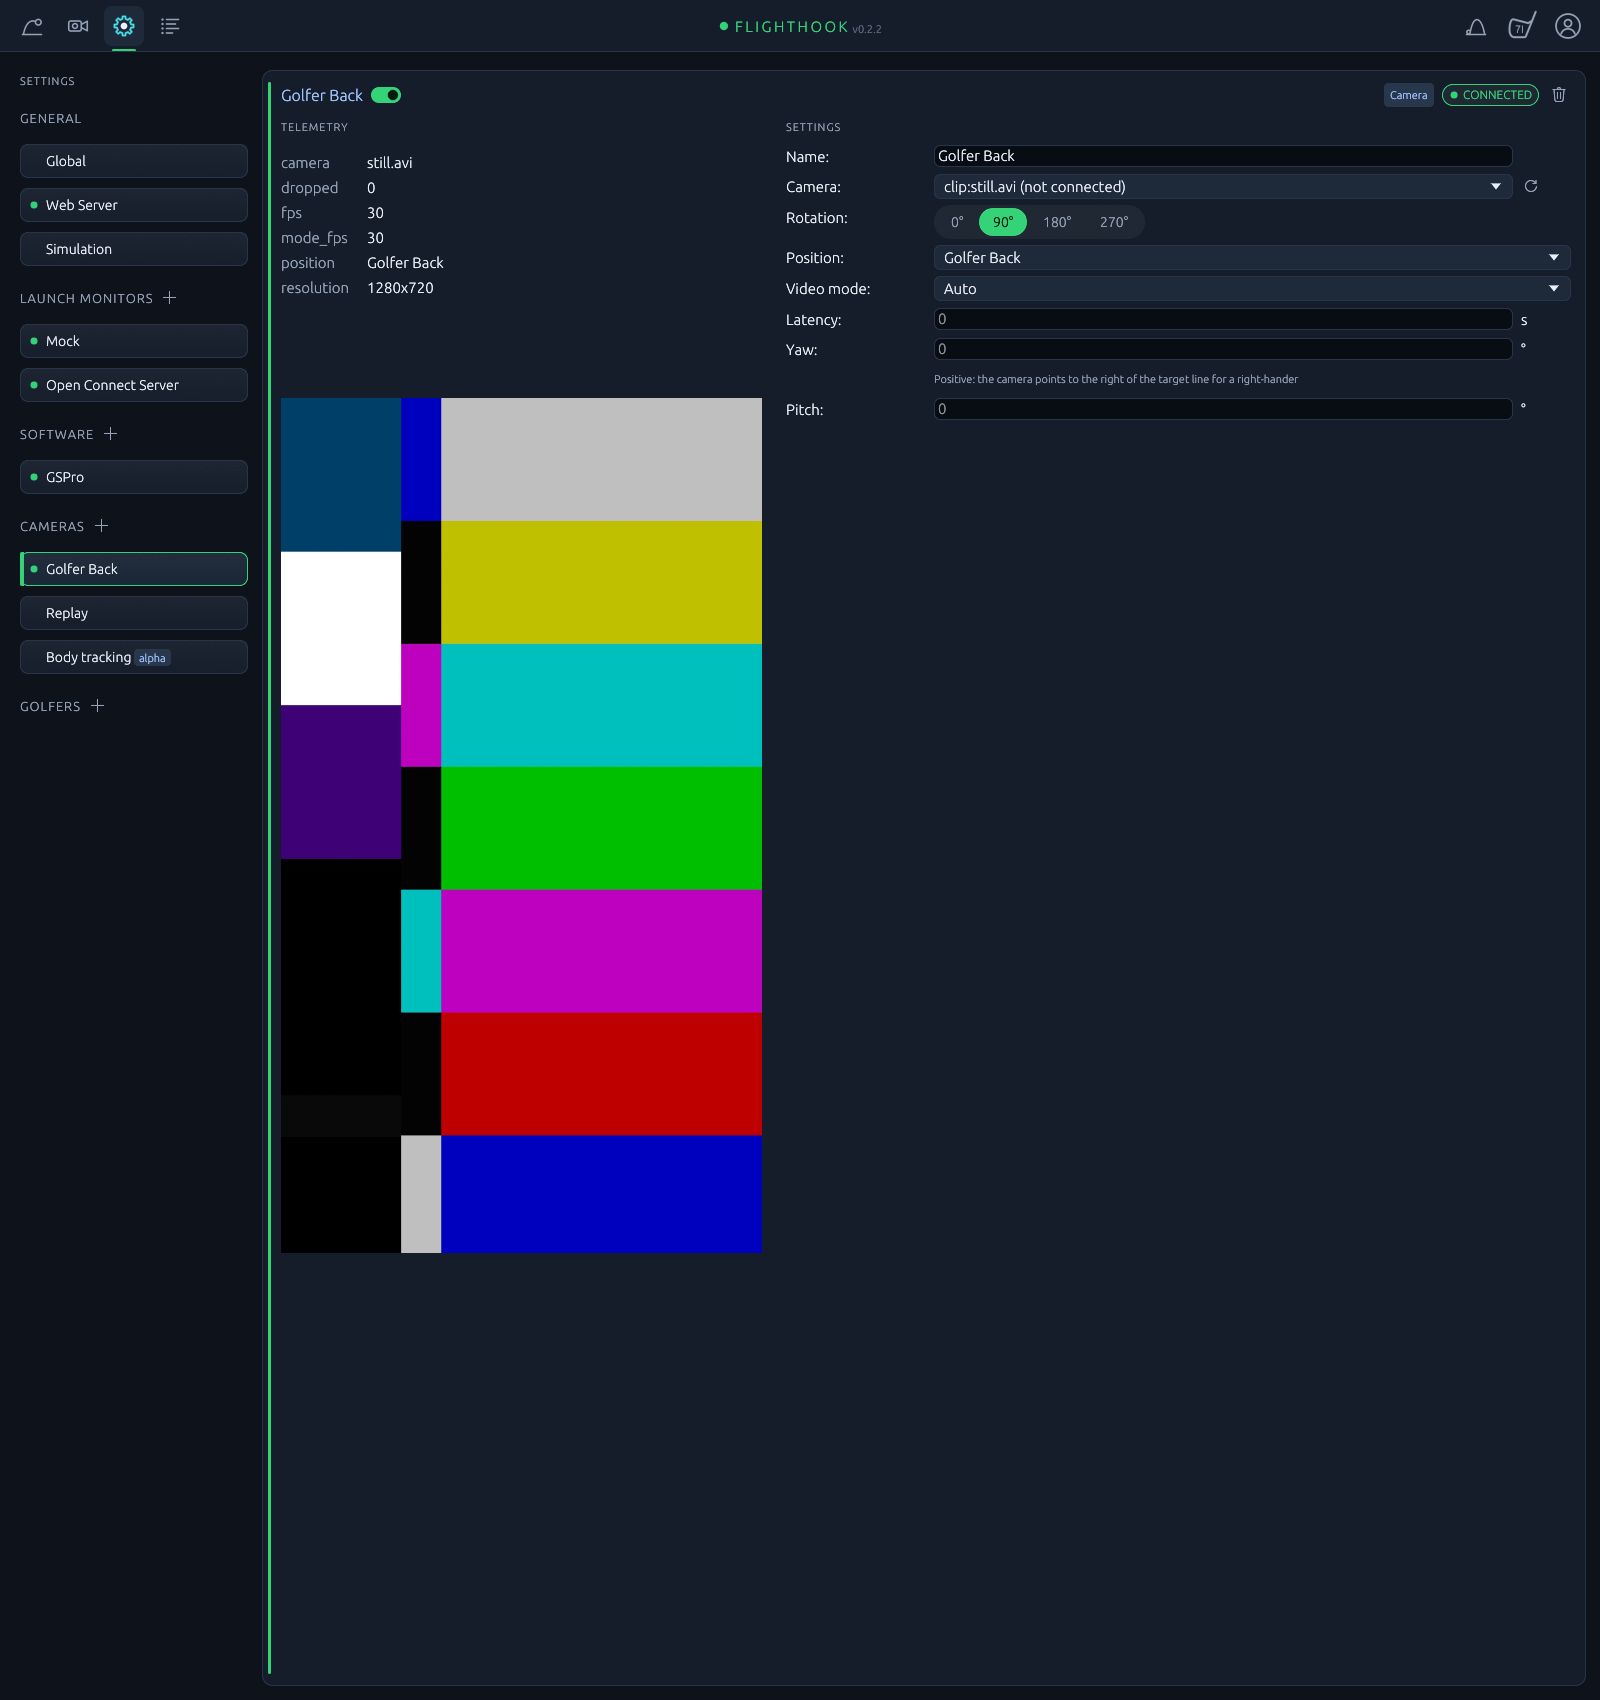
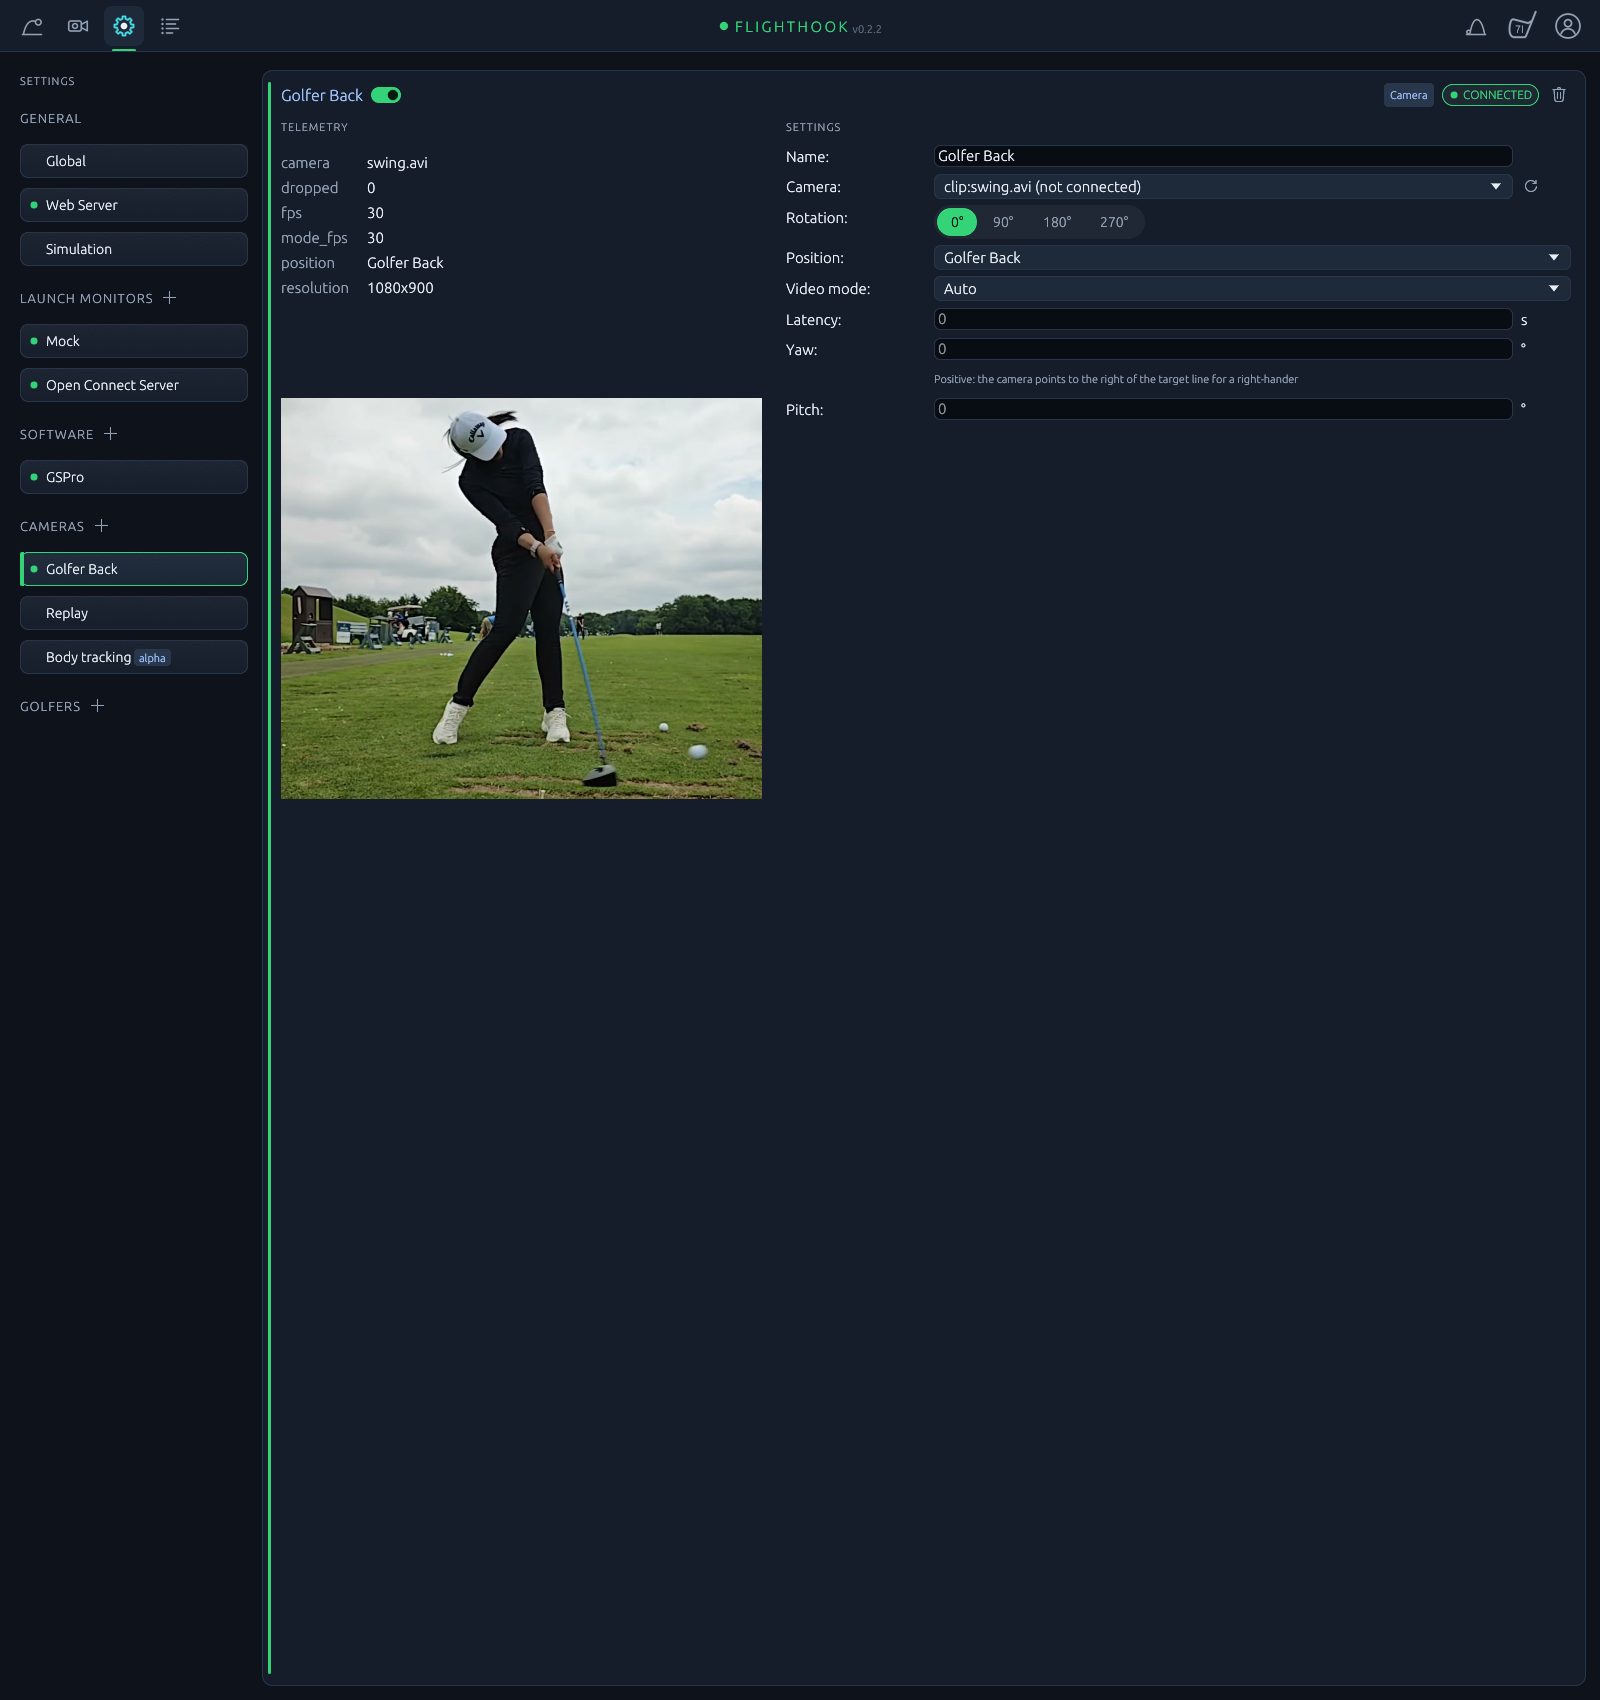
docs: the camera screenshot shows the swing clip's impact frame

Changed region(s): [[0.1562, 0.2182, 0.5, 0.7482], [0.5938, 0.0935, 0.6875, 0.1559]]

diff --git a/scripts/screens/scenes/devices.js b/scripts/screens/scenes/devices.js
@@ -3,8 +3,8 @@
 // launch monitor's page (an Open Connect launch monitor beside it in the
 // list); then the camera's page, its telemetry beside its settings, its live
 // view under the telemetry and its Rotation in sight. The camera plays one
-// color-bars frame over and over (`still.avi` in the scene's folder), so the
-// live view holds still.
+// frame of the face-on swing clip (impact, see lib/footage.js) over and over
+// (`swing.avi` in the scene's folder), so the live view holds still.
 // GSPro is configured too (Settings, Software).
 //
 // The cards show ports, so this scene uses fixed ones. The Open Connect
@@ -21,6 +21,8 @@ const { run, sleep } = require('../lib/util');
 const { Monitor, Simulator } = require('../lib/openconnect');
 
 const MOCK_FIRST_SHOT_MS = 33000;
+// The face-on clip's frame just after impact (its source frames 1540..2000, impact 1839.5).
+const IMPACT_FRAME = 300;
 
 function shot(n) {
   const v = Math.sin(n * 1.3);
@@ -45,7 +47,7 @@ function shot(n) {
 
 module.exports = {
   name: 'devices',
-  needs: ['cameras'],
+  needs: ['footage', 'cameras'],
   ports: { web: 5971, monitor: 5972, gspro: 5973, peer: 5974 },
   env: { FLIGHTHOOK_SCREENS_CLOCK: '18:24:08' },
   config: ({ ports }) => `default_units = "imperial"
@@ -71,10 +73,10 @@ bind = "127.0.0.1:${ports.monitor}"
 
 [camera.0]
 name = "Golfer Back"
-camera = "clip:still.avi"
+camera = "clip:swing.avi"
 position = "golfer_back"
 mode = "auto"
-rotation_deg = 90
+rotation_deg = 0
 
 [openconnect_client.0]
 name = "GSPro"
@@ -82,13 +84,13 @@ address = "127.0.0.1:${ports.gspro}"
 `,
 
   async before(ctx) {
-    // One frame of ffmpeg's color bars, as a clip of its own.
-    const jpeg = path.join(ctx.dir, 'still.jpg');
+    // The face-on clip's impact frame, as a clip of its own.
+    const jpeg = path.join(ctx.dir, 'swing.jpg');
     await run(process.env.FFMPEG || 'ffmpeg', ['-nostdin', '-hide_banner', '-loglevel', 'error',
-      '-f', 'lavfi', '-i', 'smptebars=size=1280x720:rate=1', '-frames:v', '1',
+      '-i', ctx.footage['golfer-front'], '-vf', `select=eq(n\\,${IMPACT_FRAME})`, '-frames:v', '1',
       '-c:v', 'mjpeg', '-q:v', '2', '-pix_fmt', 'yuvj420p', jpeg]);
-    writeClip(path.join(ctx.dir, 'still'), [fs.readFileSync(jpeg)], {
-      width: 1280, height: 720, fps: 30, tNs: [0], impactNs: 0,
+    writeClip(path.join(ctx.dir, 'swing'), [fs.readFileSync(jpeg)], {
+      width: 1080, height: 900, fps: 30, tNs: [0], impactNs: 0,
     });
     ctx.gspro = new Simulator(ctx.ports.gspro);
     ctx.cleanup.push(() => ctx.gspro.close());

diff --git a/docs/SCREENSHOTS.md b/docs/SCREENSHOTS.md
@@ -69,7 +69,7 @@ the repository mounted at the same path.
 | --- | --- | --- |
 | `shots.js` | `shots.png` | Shots tab, Cards view: a 12-shot 7-iron session from one Open Connect monitor, GSPro connected, a camera recording with video off on the shot cards |
 | `cameras.js` | `cameras.png` | Cameras tab: two cameras playing the swing clips, body tracking Live, shot #2 paused on the impact mark |
-| `devices.js` | `devices.png`, `devices-settings.png` | Settings on the Mock launch monitor's page (an Open Connect monitor, a camera and GSPro are in the list too); then the camera's page, its telemetry beside its settings, its live view under the telemetry (the camera plays one color-bars frame, so the picture holds still) |
+| `devices.js` | `devices.png`, `devices-settings.png` | Settings on the Mock launch monitor's page (an Open Connect monitor, a camera and GSPro are in the list too); then the camera's page, its telemetry beside its settings, its live view under the telemetry (the camera plays one frame of the face-on swing clip, so the picture holds still) |
 | `multi-monitor-routing.js` | `multi-monitor-routing.png` | A GSPro output's page, its settings routing full swings and chips to different monitors, putts to any |
 
 ## What keeps the pictures the same
